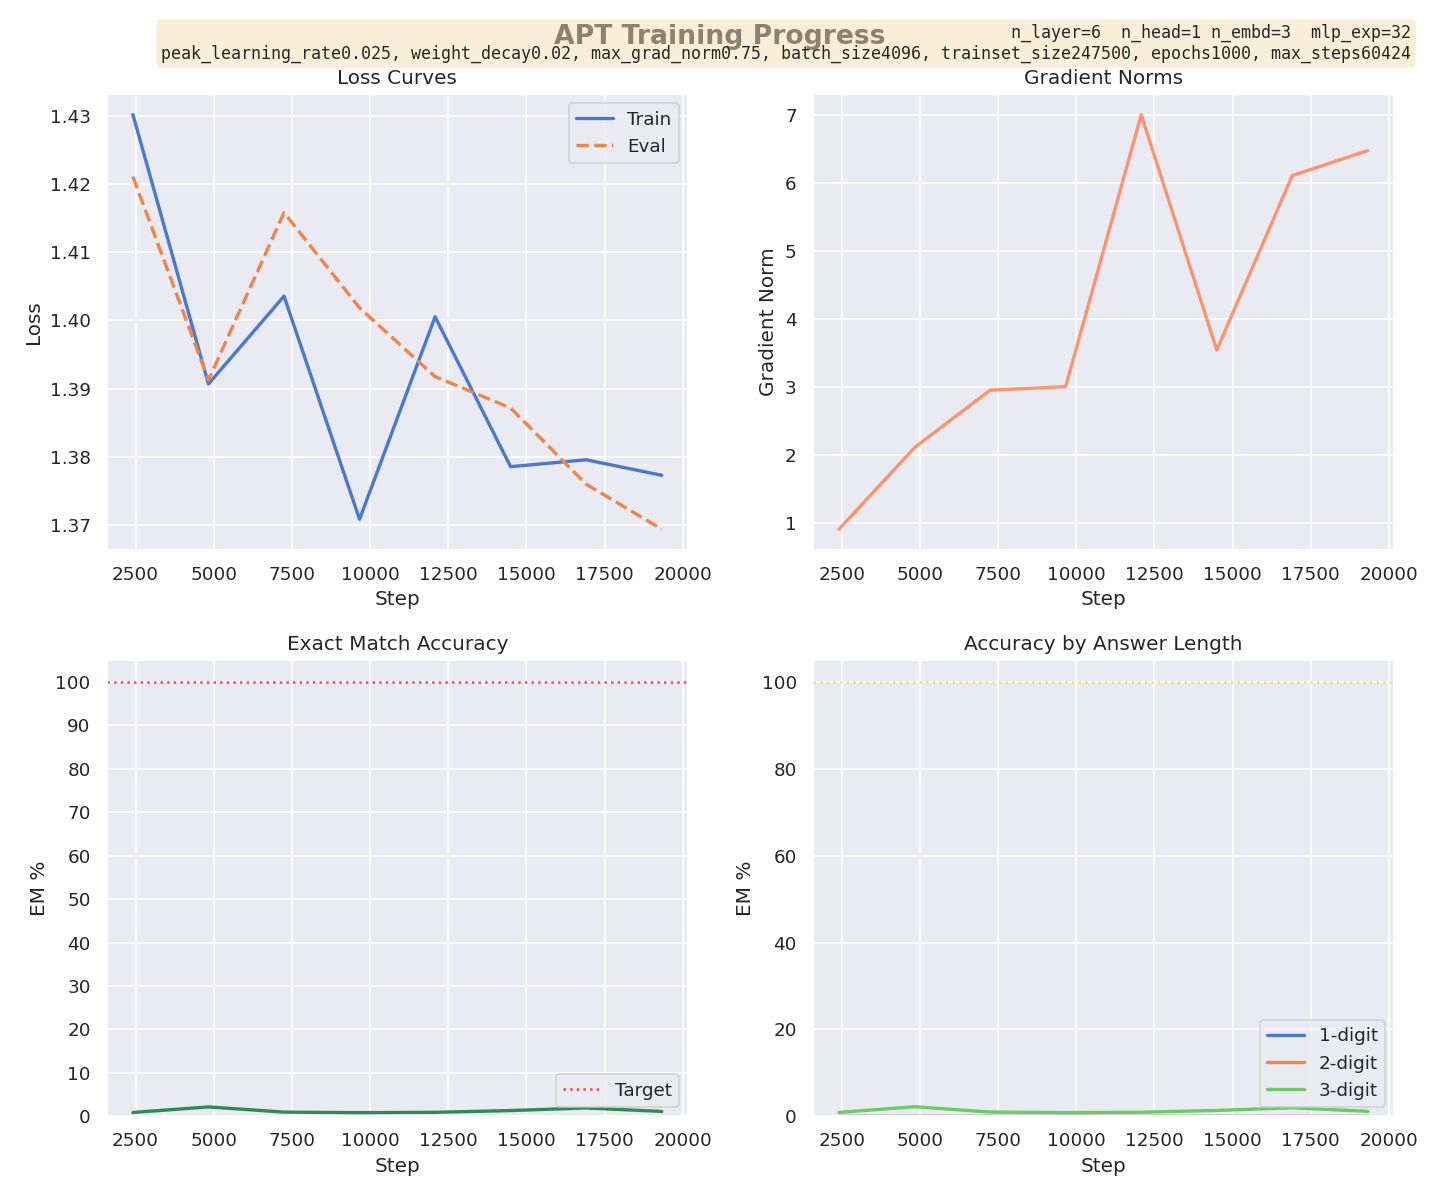
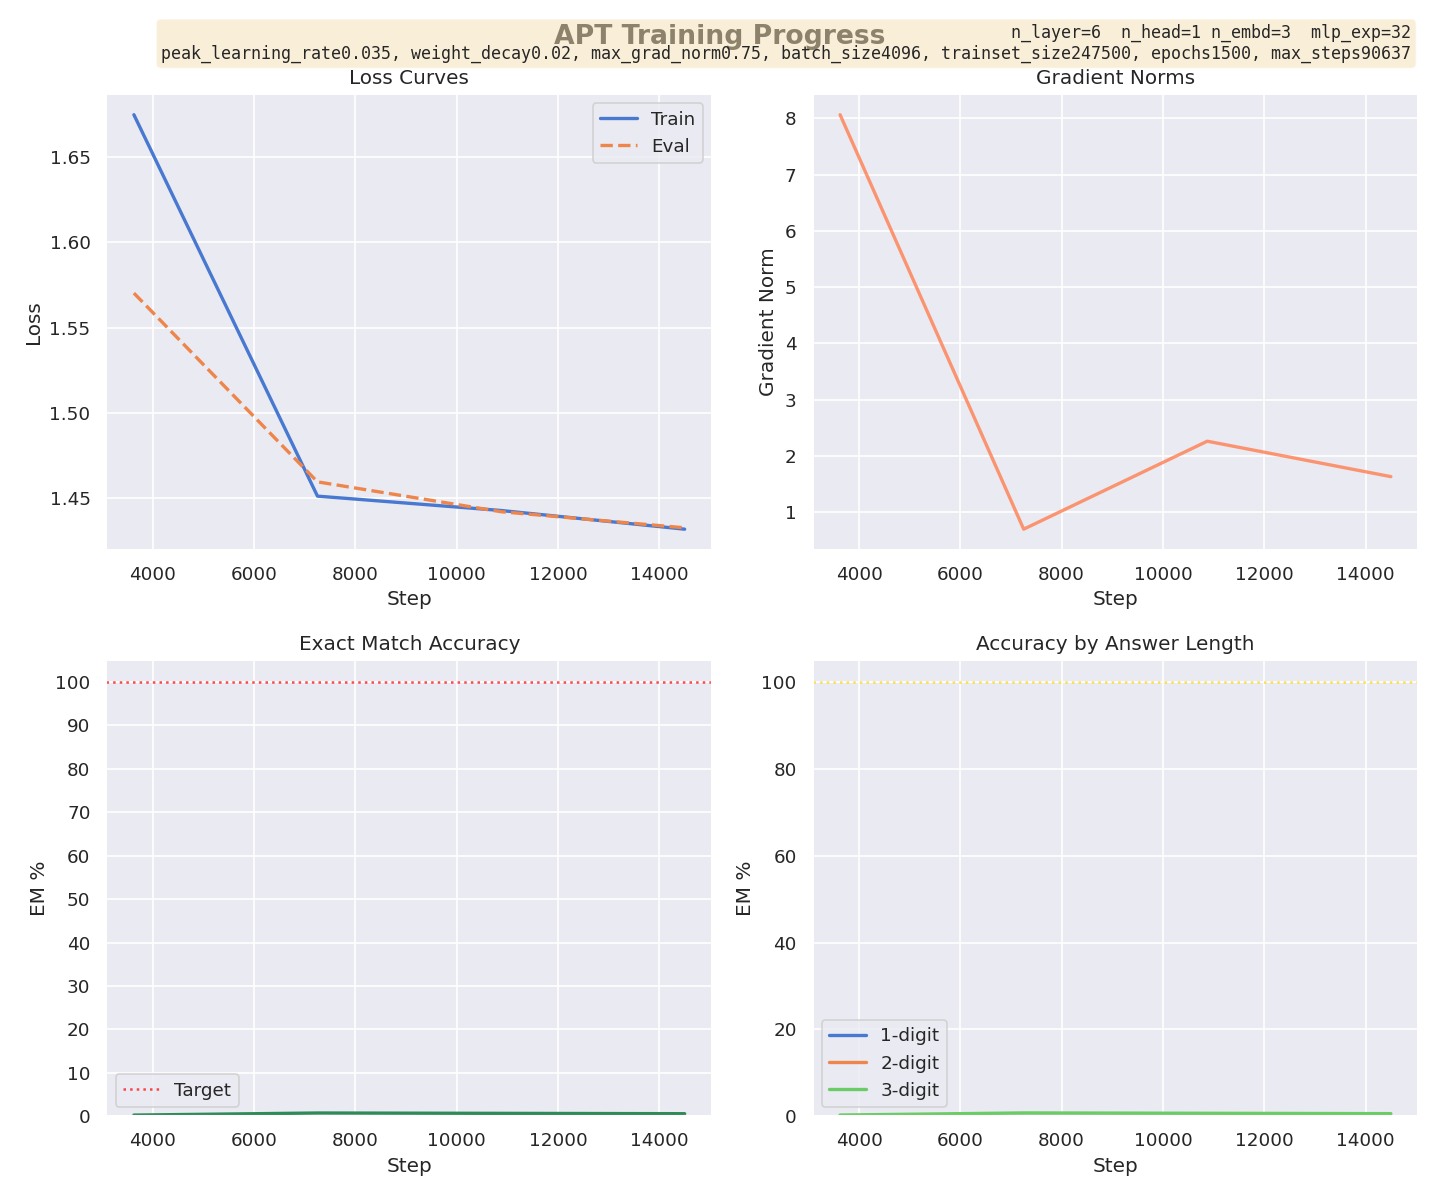
hoping for 1.5k epochs w this config to give the breakthrough

diff --git a/apt_train_3digits.py b/apt_train_3digits.py
@@ -80,11 +80,11 @@ train_loader = DataLoaderPyTorch(
     num_workers=0,
 )
 
-peak_learning_rate = 0.025 #0.04
+peak_learning_rate = 0.035 #0.04
 min_learning_rate = 0.005
 weight_decay = 0.02
 max_grad_norm = 0.75
-epochs = int(1000 * 1)
+epochs = int(1500 * 1)
 trainset_size = train_loader.trainset_size
 max_steps = epochs * (trainset_size) // batch_size
 
